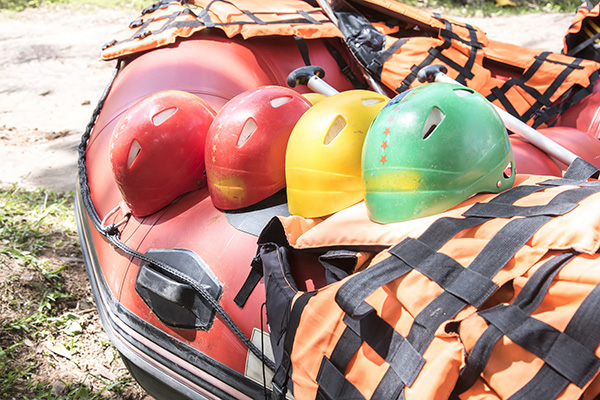
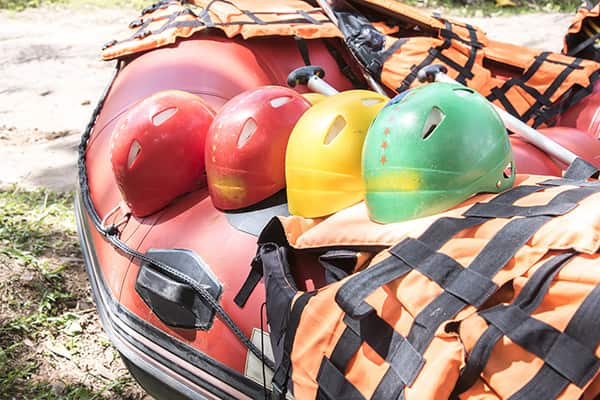
add changes to page audit

diff --git a/wwr/about.html b/wwr/about.html
@@ -14,12 +14,10 @@
     <header>
         <img src="images/logo.png" alt="logo of the company">
         <nav>
-            <ul>
-                <a href="index.html">Home</a>
-                <a href="about.html">About Us</a>
-                <a href="trips.html">Trips</a>
-                <a href="contact.html">Contact Us</a>
-            </ul>
+            <a href="index.html">Home</a>
+            <a href="about.html">About Us</a>
+            <a href="trips.html">Trips</a>
+            <a href="contact.html">Contact Us</a>
         </nav>
     </header>
     <main>
@@ -49,33 +47,33 @@
 
             <figure>
                 <img src="images/boats.jpg" alt="a lot of boats">
-                <figcaption>Caption</figcaption>
+                <figcaption>Xel-Há</figcaption>
             </figure>
 
             <figure>
                 <img src="images/materials.jpg" alt="materials for the games">
-                <figcaption>Caption</figcaption>
+                <figcaption>Sunset River Run</figcaption>
             </figure>
 
             <figure>
                 <img src="images/largeplace.jpg" alt="place">
-                <figcaption>Caption</figcaption>
+                <figcaption>Laberinto</figcaption>
             </figure>
 
             <figure>
                 <img src="images/water.jpg" alt="water">
-                <figcaption>Caption</figcaption>
+                <figcaption>Extreme Rapids Tour</figcaption>
             </figure>
 
             <figure>
                 <img src="images/yellowboat.jpg" alt="a yellow boat">
-                <figcaption>Caption</figcaption>
+                <figcaption>Dz'onot (cenote)</figcaption>
             </figure>
 
         </section>
     </main>
     <footer>
-        <p>©2026 🌊 Splash White Water Rafting 🌊 Angelica Sulub</p>
+        <p>©2026 🌊 White Water Rafting 🌊 Angelica Sulub</p>
         <nav class="socialmedia">
             <a href="https://facebook.com"><img src="images/facebook.jpg"
                   alt="facebook link to the page, if i had one"></a>

diff --git a/wwr/styles/rafting.css b/wwr/styles/rafting.css
@@ -31,7 +31,7 @@ nav {
 }
 
 nav a {
-    color: white;
+    color: var(--primary-color);
     padding: 0.5rem;
     text-decoration: none;
     font-size: 1.5rem;
@@ -42,7 +42,7 @@ header {
     background-color: var(--secondary-color);
     align-content: center;
     padding: 0.5rem;
-    color: white;
+    color: var(--primary-color);
     display: grid;
     grid-template-columns: 150px 1fr;
     justify-items: center;
@@ -88,7 +88,7 @@ h1 {
     width: 100%;
     padding: 16px;
     text-align: center;
-    color: black;
+    color: var(--primary-color);
 }
 
 .hero h1 {
@@ -107,7 +107,7 @@ h1 {
     bottom: 20px;
     padding: 10px;
     background-color: var(--secondary-color);
-    color: black;
+    color: var(--primary-color);
 }
 
 .hero article img {
